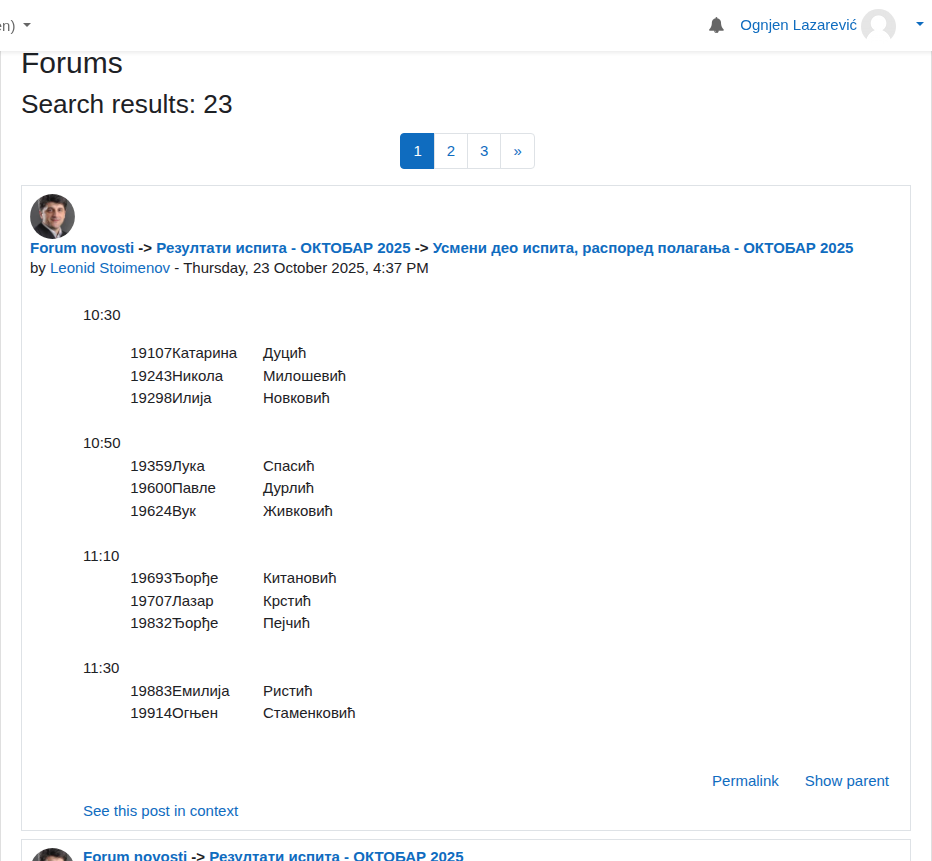
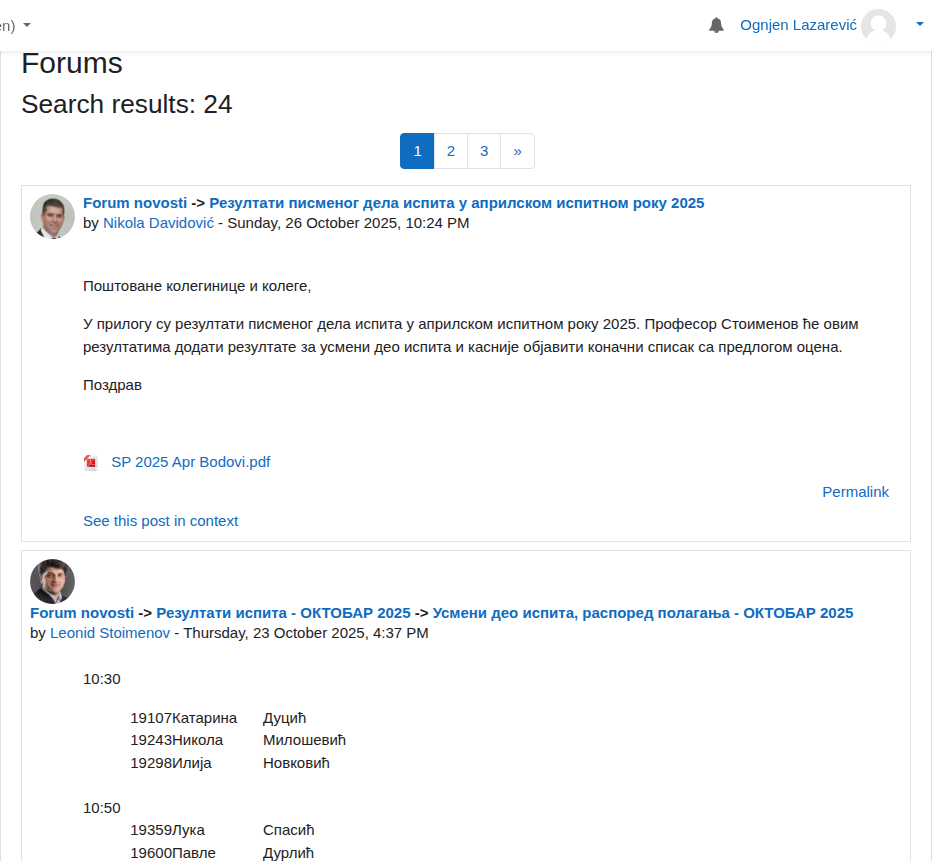
Update markdown

diff --git a/sp.md b/sp.md
@@ -1,12 +1,21 @@
 Advanced search...
 Forums
-Search results: 23
+Search results: 24
 1
 (current)
 2
 3
 »
 Next page
+Forum novosti -> Резултати писменог дела испита у априлском испитном року 2025
+by Nikola Davidović - Sunday, 26 October 2025, 10:24 PM
+Поштоване колегинице и колеге, 
+У прилогу су резултати писменог дела испита у априлском испитном року 2025. Професор Стоименов ће овим резултатима додати резултате за усмени део испита и касније објавити коначни списак са предлогом оцена.
+Поздрав
+
+SP 2025 Apr Bodovi.pdf
+Permalink
+See this post in context
 Forum novosti -> Резултати испита - ОКТОБАР 2025 -> Усмени део испита, распоред полагања - ОКТОБАР 2025
 by Leonid Stoimenov - Thursday, 23 October 2025, 4:37 PM
 10:30
@@ -132,15 +141,6 @@ by Nikola Davidović - Monday, 6 October 2025, 2:34 PM
 Поздрав
 
 SP 2025 Sep Bodovi.pdf
-Permalink
-See this post in context
-Forum novosti -> Делимични резултати испита (Т део) - СЕПТЕМБАР 2025
-by Leonid Stoimenov - Wednesday, 1 October 2025, 11:43 AM
-У прилогу су резултати испита за Т део за СЕПТЕМБАР за студенте који су у овом року излазили на испит.
-Поља означена зеленом бојом значе да сте тај део испита положили и да вам освојени поени важе и у наредним испитним роковима. Жута боја значи да нисте положили тај део испита и да морате да га полажете поново.
-Подвучени број поена је из неког од претходних испитних рокова.
-
-SP SEP 25 - T deo.pdf
 Permalink
 See this post in context
 1
